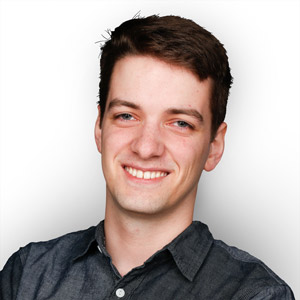
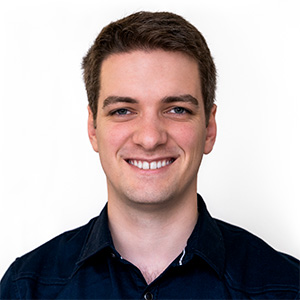
Update page with new image and photo section

diff --git a/photo/index.html b/photo/index.html
@@ -1,0 +1,31 @@
+---
+layout: default
+title: Photo
+subtitle: 
+---
+
+
+<section class="single">
+
+	<div class="wrap">
+
+		<h1 style="text-align: center;"><a href="https://www.instagram.com/chrschrn/"><i class="fab fa-instagram"></i> chrschrn</a></h1>
+
+		</br></br>
+
+		<!-- Place <div> tag where you want the feed to appear -->
+		<div id="curator-feed-default-feed-layout"><a href="https://curator.io" target="_blank" class="crt-logo crt-tag">Powered by Curator.io</a></div>
+
+		<!-- Will not be executed on static/direct page load -->
+		<!-- For dynamic load (via button) the footer javascript will execute -->
+		<script>
+			(function(){
+				var i, e, d = document, s = "script";i = d.createElement("script");i.async = 1;
+				i.src = "https://cdn.curator.io/published/cfadda0c-990f-4050-891b-f01c79e8a20b.js";
+				e = d.getElementsByTagName(s)[0];e.parentNode.insertBefore(i, e);
+				})();
+		</script>
+
+</div>
+
+</section>

diff --git a/music/index.html b/music/index.html
@@ -1,8 +1,7 @@
 ---
 layout: default
 title: Music
-description: Simples is a super simple blogging theme for Jekyll.
-featured_image: /images/social.jpg
+
 ---
 
 <section class="listing single">

diff --git a/_pages/home.md b/_pages/home.md
@@ -7,12 +7,12 @@ permalink: ""
 ---
 
 <p align="center">
-I'm glad you're here. This little place is my digital business card -- for now, at least. Since you're already here, take a look around and feel free to send me a <a href="/contact">mail</a>.
+I'm glad you're here. This little place is my digital business card <span>&ndash;</span> for now, at least. Since you're already here, take a look around and feel free to send me a <a href="/contact">mail</a>.
 </p>
 
 <br>
 
-<p class="pdfviewer">
+<!-- <p class="pdfviewer">
     <iframe src="https://drive.google.com/file/d/{{ site.data.settings.basic_settings.resume_id }}/preview"></iframe>
 </p>
 
@@ -20,4 +20,4 @@ I'm glad you're here. This little place is my digital business card -- for now, 
     <a class="button" href="https://drive.google.com/uc?export=download&id={{ site.data.settings.basic_settings.resume_id }}" title="Download Résumé" download="Résumé_Christoph_Schorn">
         <i class="fas fa-download"></i> Download Résumé 
     </a>
-</p>
+</p> -->
